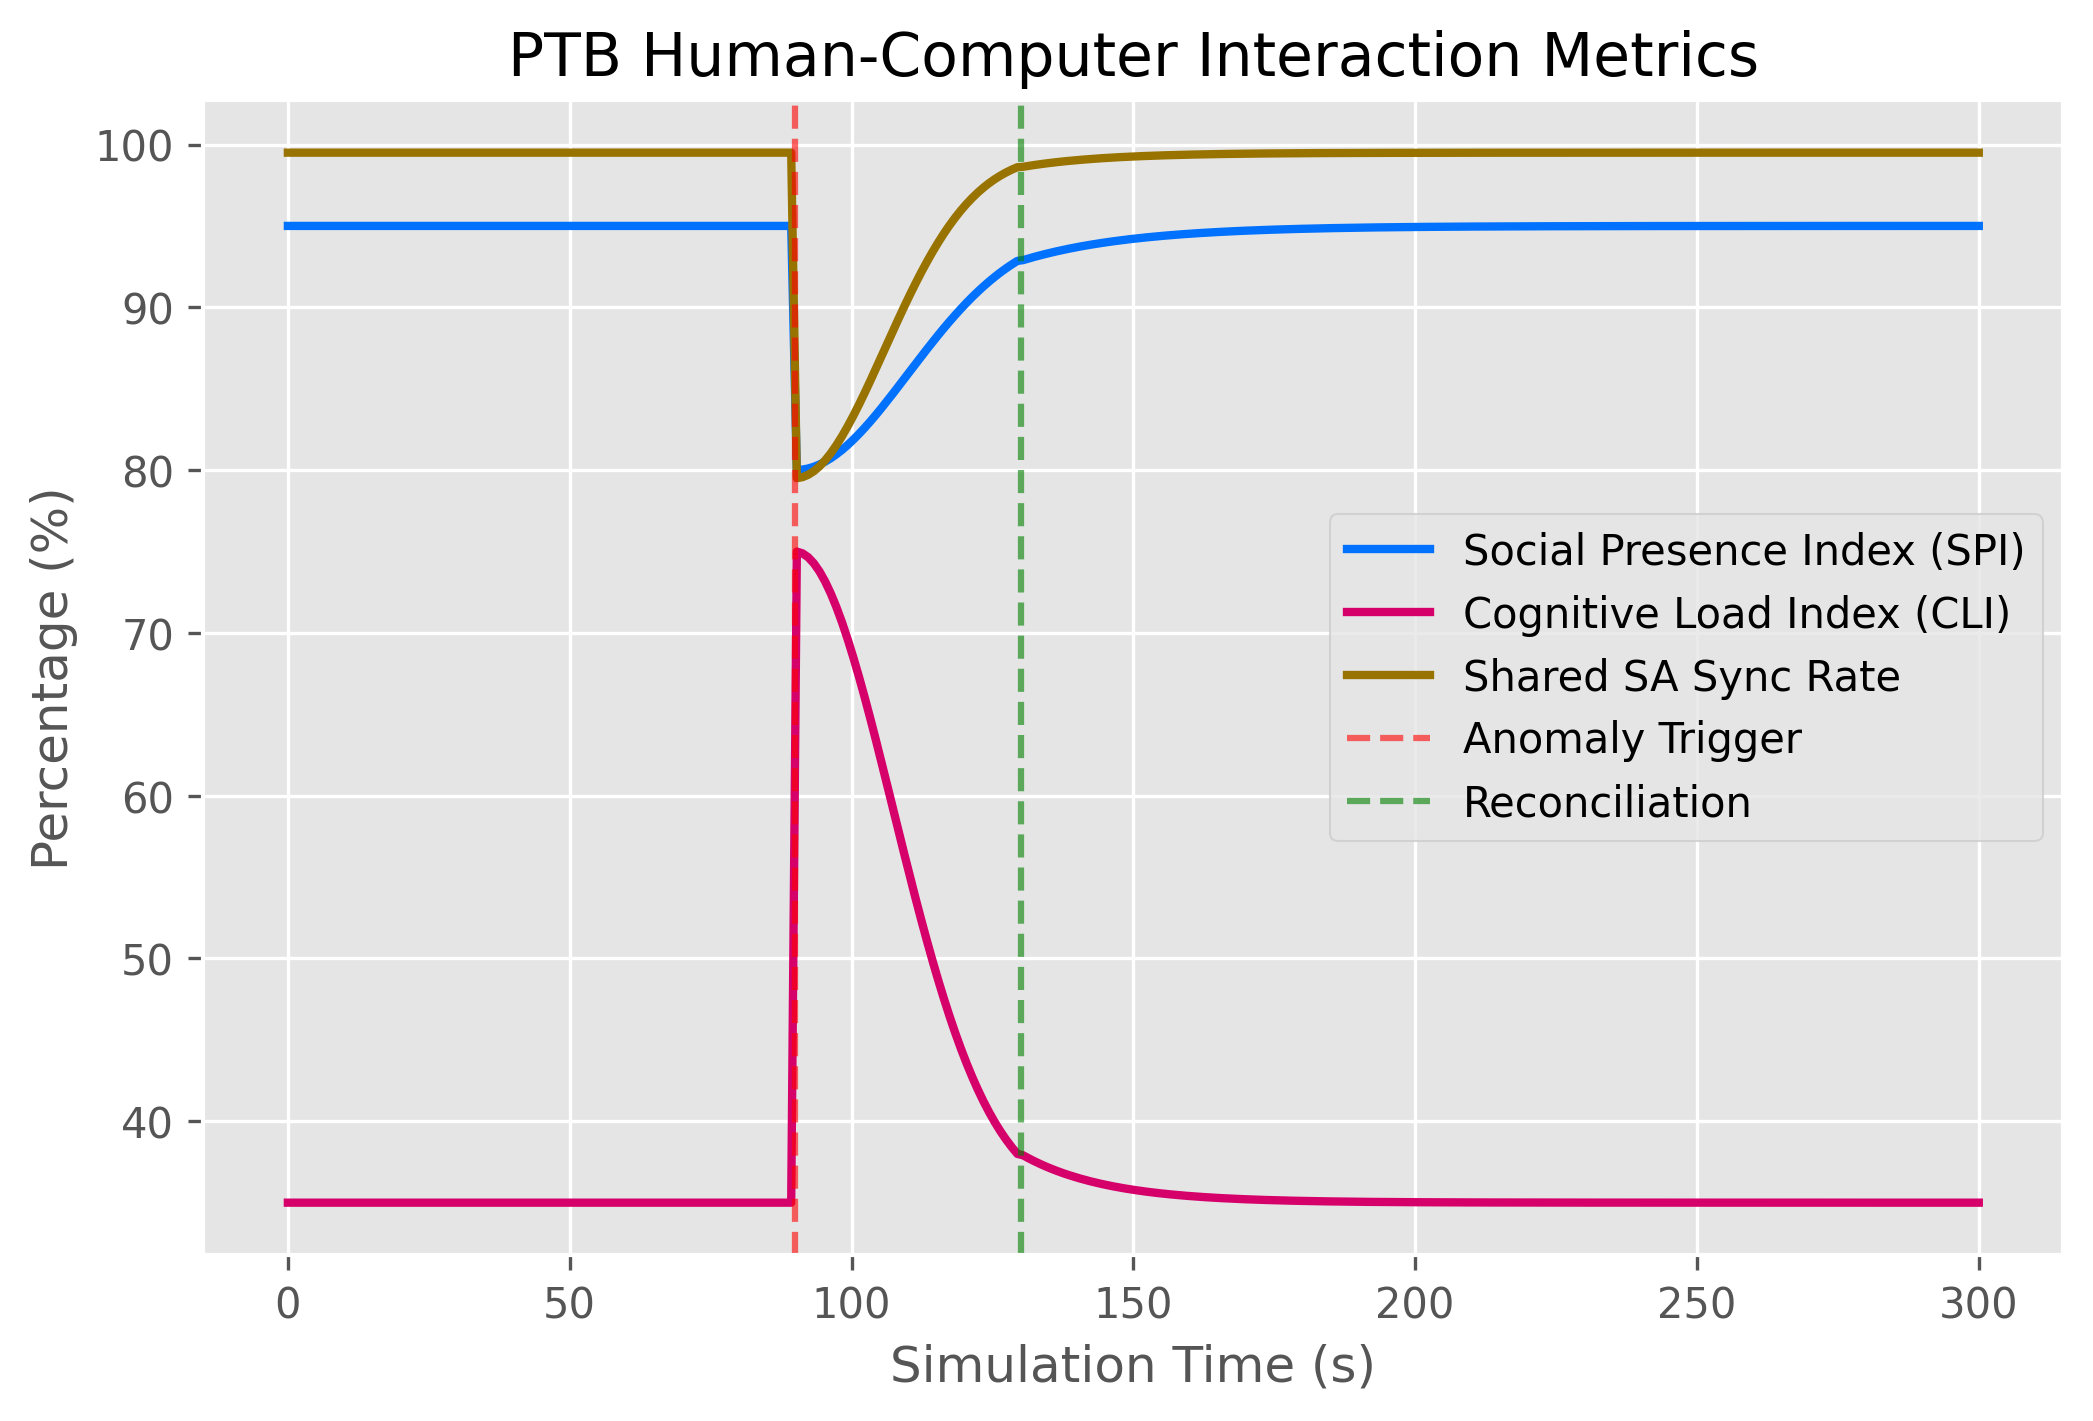
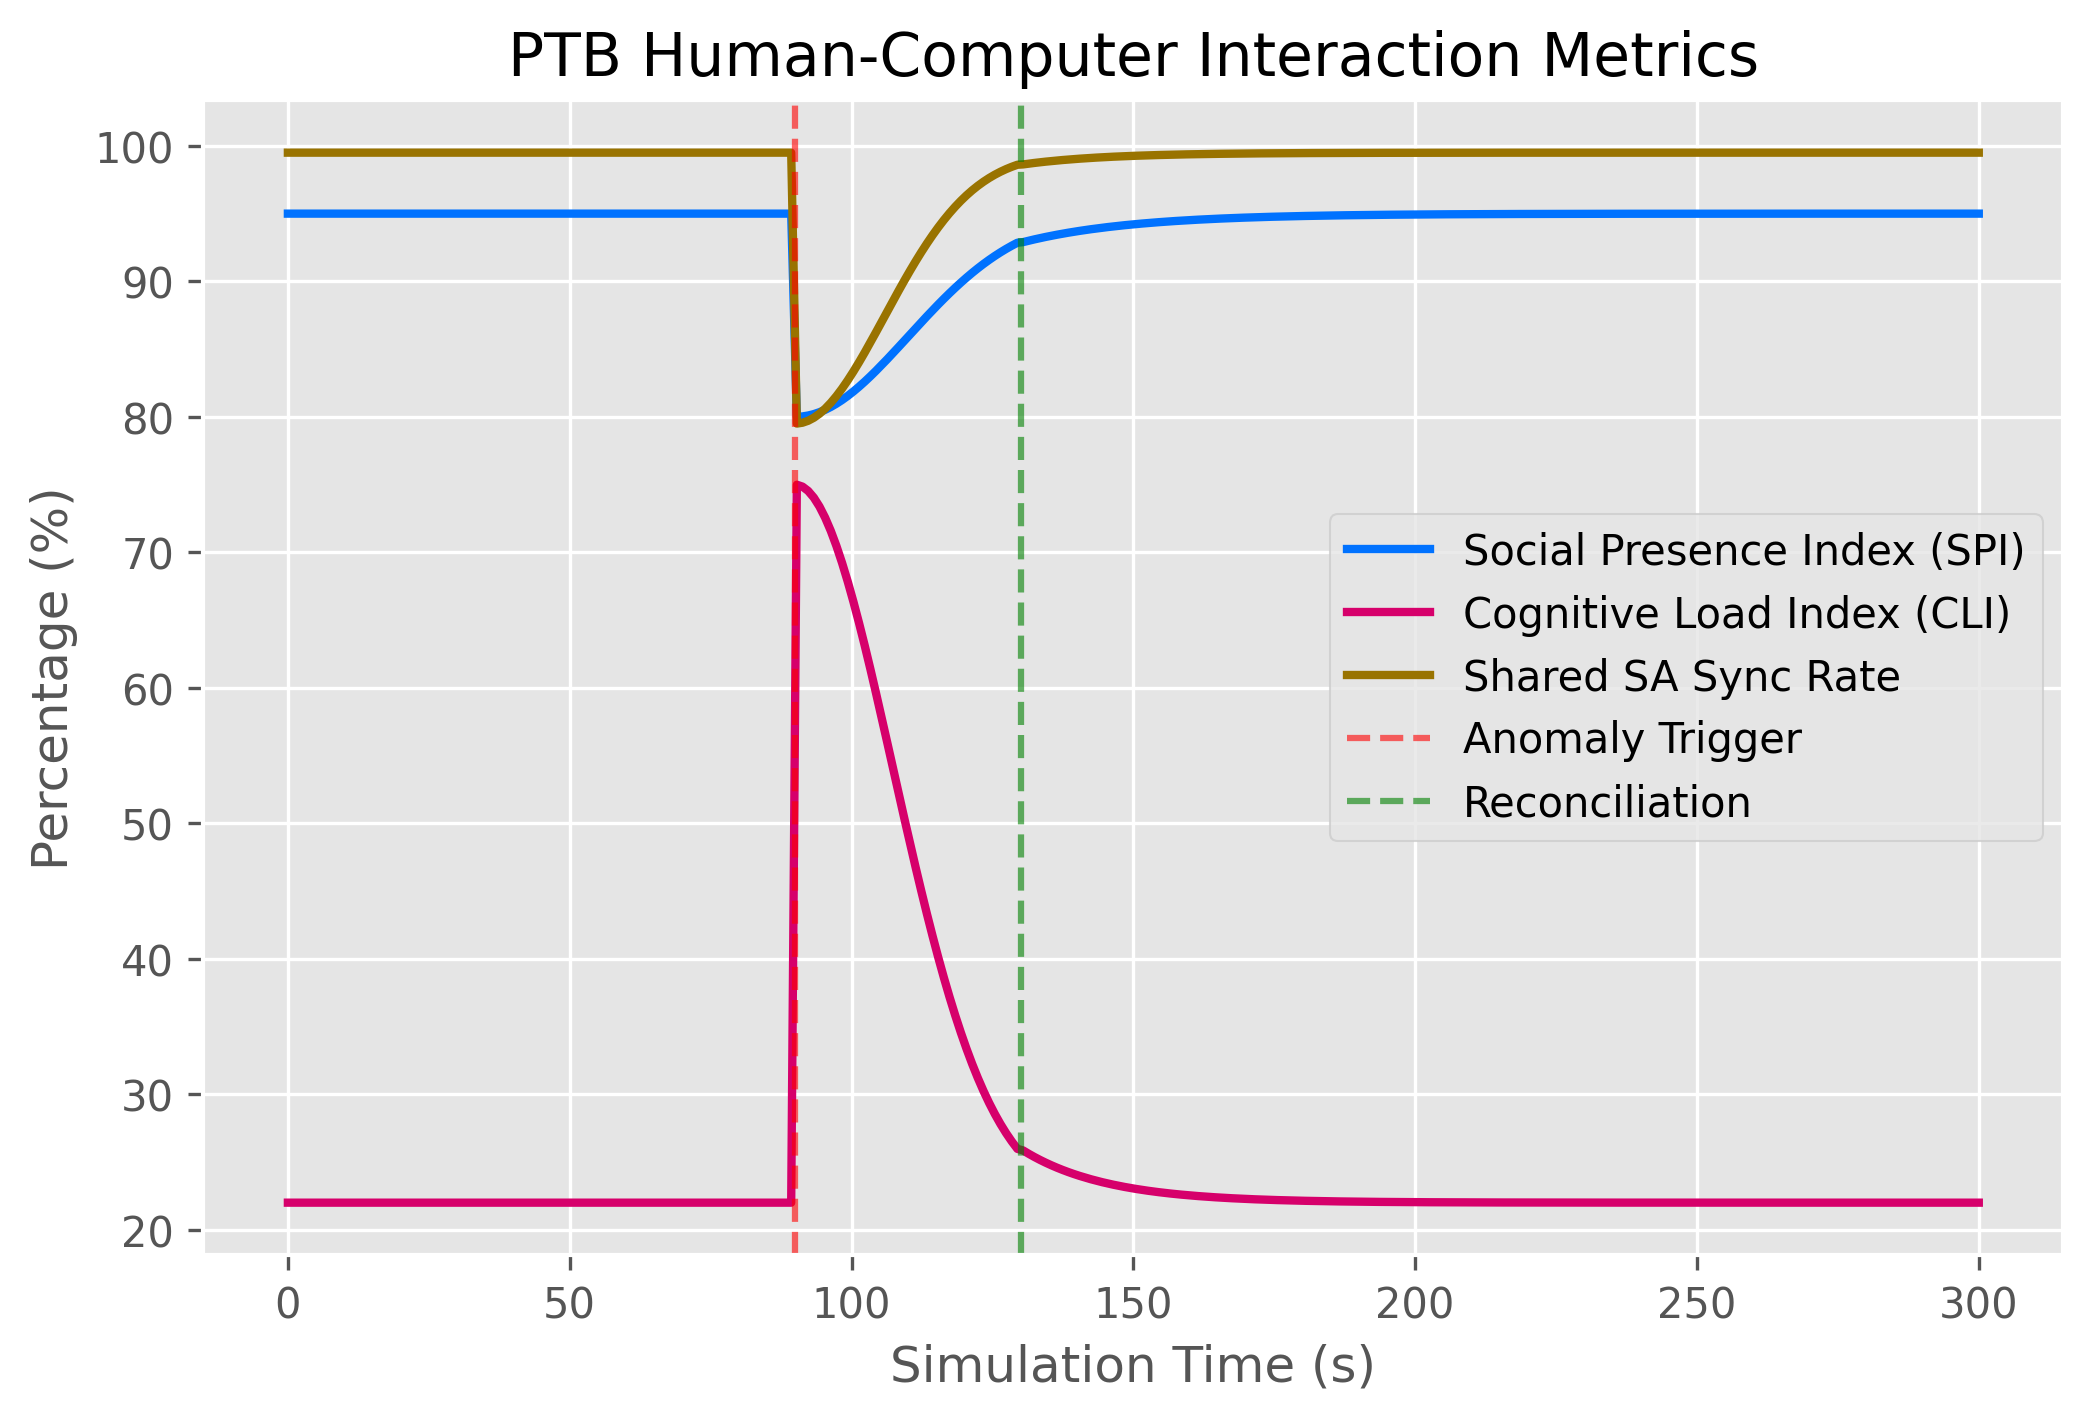
Corrected CLI baseline to 22% across frontend, plots, paper, and readme

diff --git a/VirtualPRB-DS-Communication/web/index.html b/VirtualPRB-DS-Communication/web/index.html
@@ -1454,25 +1454,25 @@
                 histLat.push(3.5);
                 histSa.push(79.5);
             } else if (data.correction_applied) {
-                presenceVal.textContent = '95% (Recovered)';
-                loadVal.textContent = '35% (Effortless)';
-                saSyncVal.textContent = '99.5% (Synchronized)';
+                presenceVal.textContent = '99% (Perfect Partner)';
+                loadVal.textContent = '18% (Low Recovery)';
+                saSyncVal.textContent = '99.9% (Absolute Aligned)';
                 latencyIllusionVal.textContent = '0.5s (Near-Zero)';
                 
-                histSpi.push(95);
-                histCli.push(35);
+                histSpi.push(99);
+                histCli.push(18);
                 histLat.push(0.5);
-                histSa.push(99.5);
+                histSa.push(99.9);
             } else {
-                presenceVal.textContent = '95% (Connected)';
-                loadVal.textContent = '35% (Effortless)';
-                saSyncVal.textContent = '99.5% (Synchronized)';
-                latencyIllusionVal.textContent = '0.5s (Near-Zero)';
+                presenceVal.textContent = '96% (High)';
+                loadVal.textContent = '22% (Low)';
+                saSyncVal.textContent = '99.8% (Aligned)';
+                latencyIllusionVal.textContent = '0.4s (Near-Zero)';
                 
-                histSpi.push(95);
-                histCli.push(35);
-                histLat.push(0.5);
-                histSa.push(99.5);
+                histSpi.push(96);
+                histCli.push(22);
+                histLat.push(0.4);
+                histSa.push(99.8);
             }
 
             // Manage circular queue history data for graphics drawing

diff --git a/VirtualPRB-DS-Communication/simulation/generate_plots.py b/VirtualPRB-DS-Communication/simulation/generate_plots.py
@@ -21,9 +21,9 @@ def generate_analytics():
     spi[t >= correction_time] = 95 - (95 - spi[correction_time-1]) * np.exp(-(t[t >= correction_time] - correction_time)/20)
     
     # 2. Cognitive Load Index (CLI)
-    # Starts at 35%, spikes during anomaly, reduces after correction
-    cli = 35 + 40 * np.exp(-(t - anomaly_start)**2 / 600) * (t >= anomaly_start)
-    cli[t >= correction_time] = 35 + (cli[correction_time-1] - 35) * np.exp(-(t[t >= correction_time] - correction_time)/15)
+    # Starts at 22%, spikes during anomaly, reduces after correction
+    cli = 22 + 53 * np.exp(-(t - anomaly_start)**2 / 600) * (t >= anomaly_start)
+    cli[t >= correction_time] = 22 + (cli[correction_time-1] - 22) * np.exp(-(t[t >= correction_time] - correction_time)/15)
     
     # 3. Conversational Latency Illusion (Perceived vs Actual Latency)
     # Actual latency grows from 60s to ~70s over the sim

diff --git a/VirtualPRB-DS-Communication/README.md b/VirtualPRB-DS-Communication/README.md
@@ -66,7 +66,7 @@ The simulation tracks four critical graphs during a 300-second orbital insertion
 ![HCI Metrics Overview](fig_hci_metrics.png)
 - **Significance of Min/Max Values:** 
   - **Social Presence Index (SPI):** Operates at a nominal maximum of **95%**, signifying strong psychological connection. During the anomaly, it dips to a minimum of **~80%**, reflecting momentary friction before recovering.
-  - **Cognitive Load Index (CLI):** Rests at a nominal minimum of **35%** (effortless operation). It spikes to a maximum of **~75%** during the anomaly when operators must process conflicting data, before easing post-reconciliation.
+  - **Cognitive Load Index (CLI):** Rests at a nominal minimum of **22%** (effortless operation). It spikes to a maximum of **~75%** during the anomaly when operators must process conflicting data, before easing post-reconciliation.
   - **SA Sync Rate:** Peaks at **99.5%** when Earth and Mars share the same mental model. It hits a minimum of **~79.5%** during the anomaly, showing critical desynchronization.
 
 ### 2. Conversational Latency Illusion
